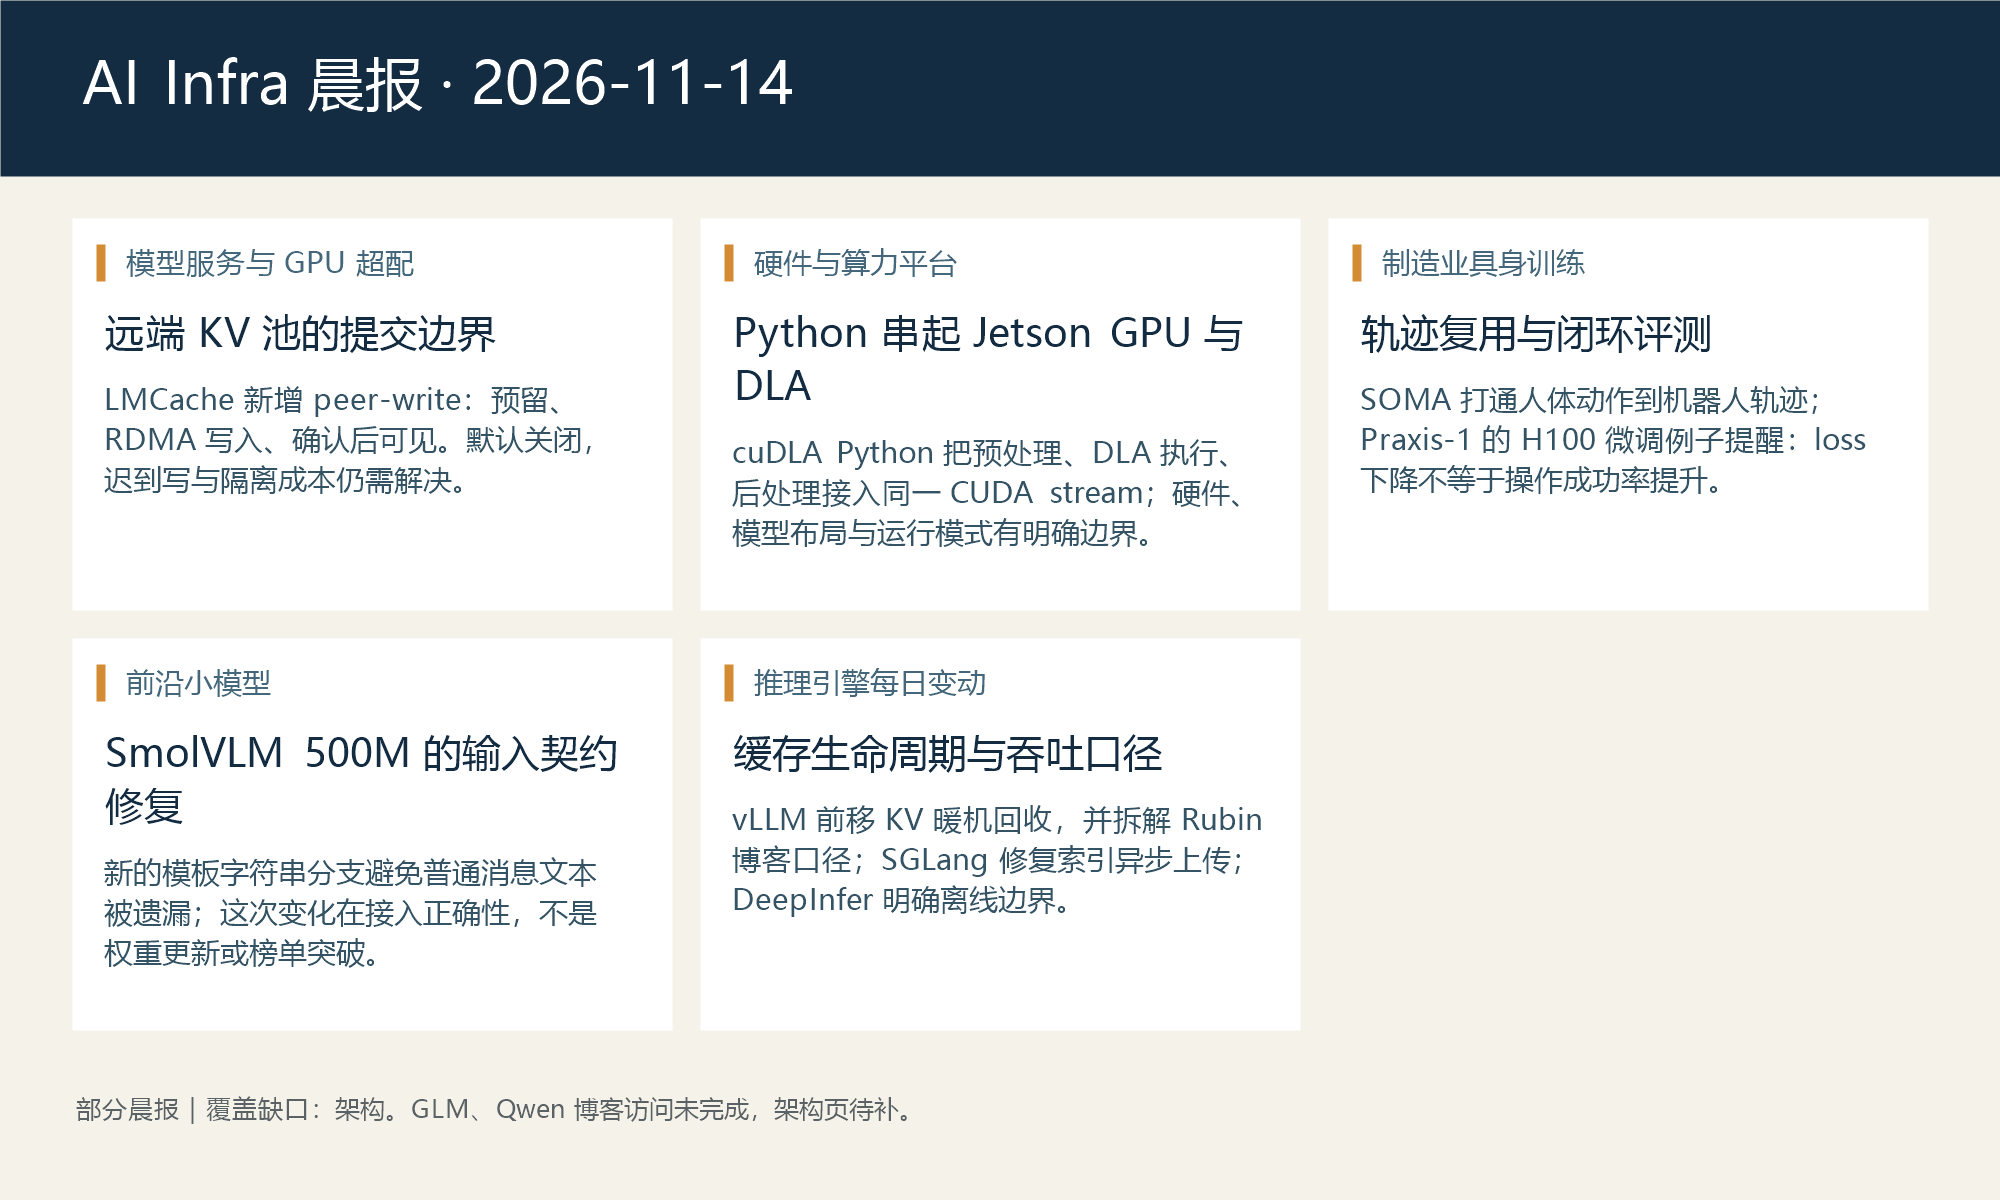
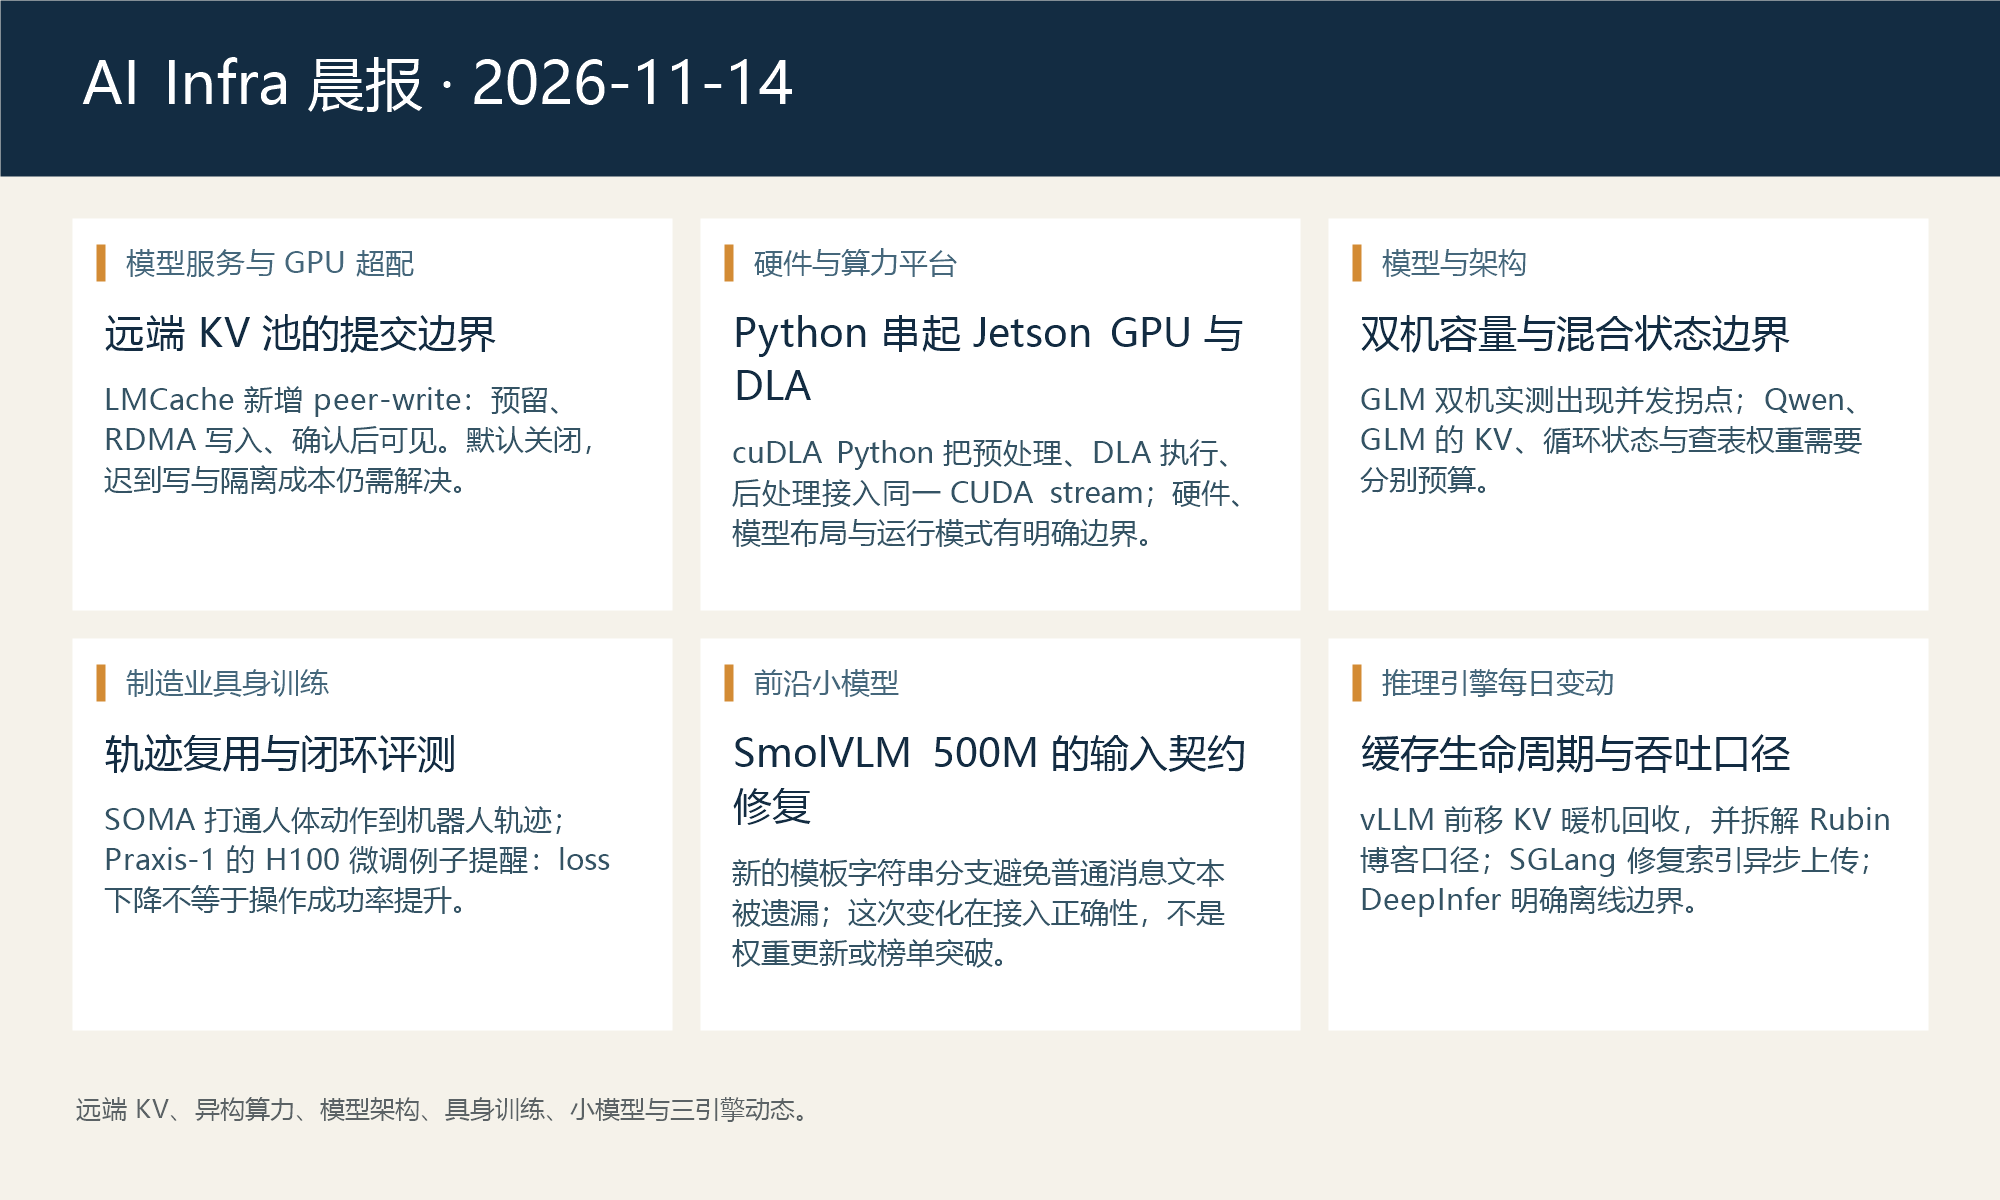
docs(report): publish validated report

diff --git a/reports/2026-11-14/articles/model-architecture-status.md b/reports/2026-11-14/articles/model-architecture-status.md
@@ -1,0 +1,51 @@
+11 月 13 日，NVIDIA 发布了 **GLM-5.3 NVFP4 在两台 DGX Station 上运行的部署实测**。这次增量是具体的软件配置、权重分片和并发测量。GLM-5.3-Flash、Qwen3.8-Flash-Next 的混合架构则是已有背景，用来说明接入不同模型时，哪些内存可以分片、哪些状态必须随请求一起管理。
+
+### 双机让权重装得下，剩余空间仍要留给请求
+
+实测采用两台 **GB300 DGX Station**，每台 GPU 有 252GB HBM3e，经选定的 **400Gb/s ConnectX-8 RoCE** 链路连接。模型是 **GLM-5.3：753B 总参数、每 token 激活约 40B**；NVFP4 checkpoint 约 464GB。这里要与 **320B 总参数、18B 激活的 GLM-5.3-Flash** 区分。
+
+vLLM 的 **TP=2** 把同一个模型的张量分到两个 rank。每个 token 的计算都需要两端通信；入口由 Station A 提供，Station B 是 worker。两台机器各保留完整的磁盘 checkpoint，加载后每张 GPU 约有 218GiB 权重。无请求时约 231.35/231.34GiB 的 GPU 总占用还包含 KV 与运行缓冲，不能全算成权重。
+
+```text
+请求 → Station A：API + rank 0 ← RoCE 通信 → Station B：rank 1
+             两个 rank 共同计算同一个模型的每个 token
+```
+
+这套配置关闭 CPU 权重卸载，使用固定摘要的 `vLLM v0.30.0-aarch64` 镜像、FP8 KV、前缀缓存和每步四个 MTP 草稿 token；上下文上限为 98,304 token。NVFP4 针对特定 MoE 线性权重与激活，不能把全部张量都按四位估算。增加一台机器解决了常驻权重容量问题，KV、临时工作区和通信开销仍要单独预算。
+
+### 并发翻倍，吞吐已经越过拐点
+
+AIPerf 0.12.0 使用 SPEED-Bench Coding 的 80 个会话、89 轮输入，按 `3×并发数` 暖机、`10×并发数` 测量；高并发会重复部分会话。测试开启前缀缓存，采用默认 `max` 推理力度和 8,192 token 输出上限，输出统计包含 reasoning token。
+
+| 配置并发 | 总输出吞吐 | 平均请求延迟 | 平均首 token 延迟 |
+| --- | ---: | ---: | ---: |
+| 16 | 607.8 tok/s | 136.4 s | 482.90 ms |
+| 32 | 385.0 tok/s | 453.5 s | 899.36 ms |
+
+因此，“装得下模型”之后，还要寻找负载下的合适并发。提高并发到 32 已经同时损伤吞吐和平均延迟。这里没有 p99 数据，也没有关闭 MTP 的对照，不能把整套配置的吞吐全部归给草稿解码，或用平均值承诺在线尾延迟。
+
+上述数据来自 **2×GB300 的单模型服务**。H100/H200 的精度内核、容量和互连条件不同，必须重新建立同硬件基线；**Pro5500（型号待核实）**不作兼容承诺。不同模型仍有独立权重，TP 分片本身没有证明跨模型超配收益。
+
+原文与完整复现条件：[NVIDIA 双 DGX Station 部署文章](https://developer.nvidia.com/blog/when-one-gpu-isnt-enough-serving-glm-5-3-across-two-nvidia-dgx-stations-with-vllm/)，发布于 **2026-11-13 17:00 UTC**。
+
+### 混合模型要分别管理 KV、循环状态与查表权重
+
+以下是接入时需要保留的机制背景，不计作本日新模型发布。
+
+**Qwen3.8-Flash-Next** 的 48 层由 12 组“3 层 Gated DeltaNet + 1 层 Qwen Sparse Attention”组成。GDN 把历史压入固定大小的循环状态；QSA 用微块索引选择上下文。其主干为 125B，另有 51B n-gram embedding 和 4B MTP，6B 激活参数不代表常驻权重大小。
+
+n-gram 表的查询位置可提前确定，因此可以放在主机内存并异步预取。这类模型权重的驻留，与请求 KV、稀疏索引和循环状态的生命周期不同。做前缀复用、请求分叉、抢占恢复或草稿回退时，应分别验证这些对象的身份、位置与一致性，不能把固定大小的循环状态套进普通全注意力 KV 的容量公式。这里是由机制导出的验证要求，不代表各引擎已经实现相同的卸载和复用策略。
+
+**GLM-5.3-Flash** 采用线性与稀疏注意力的混合设计，并用 IndexPool 将四个索引 key 加权池化为一个。官方文章描述了 SGLang 定制栈中的 ReplaySSM、混合缓存精度和分离部署；这与上面的 GLM-5.3 NVFP4 双机实例属于不同模型和部署条件，配置与性能数字不能相互套用。
+
+模型卡给出了 Flash-Next、GLM-5.3-Flash 的 vLLM/SGLang 接入入口。本页核实了这些官方声明，但尚未逐一确认它们全部功能的最低上游稳定版本；部署时应按目标模型、缓存精度、草稿路径和并行方式核对具体 recipe/commit。DeepInfer 的既有离线支持范围也不能扩写为这两个模型的在线服务支持。
+
+**DeepSeek-V4.1-Flash-1017** 的现有模型卡还明确要求协议感知的编码实现，没有提供 Jinja chat template；消息、思考和工具调用的编码与解析需要单独验证。本轮未据此新增模型发布条目。已经核实的 Rubin 服务技术文保留在[推理引擎每日变动](https://sfcloud-ai.github.io/ai-infra-reports/2026-11-14/inference-engines/)，不重复计算事件。
+
+机制来源：[Qwen Flash-Next 官方文章](https://qwen.ai/blog?id=qwen3.8-flash-next)、[Qwen 模型卡](https://huggingface.co/Qwen/Qwen3.8-Flash-Next)、[GLM-5.3-Flash 官方文章](https://z.ai/blog/glm-5.3-flash)、[GLM 模型卡](https://huggingface.co/zai-org/GLM-5.3-Flash)、[DeepSeek 模型卡](https://huggingface.co/deepseek-ai/DeepSeek-V4.1-Flash-1017)。
+
+### 下一步：用同硬件基线检验真正的容量收益
+
+在 H100/H200 上，先分别测出权重、KV/循环状态、临时工作区与安全余量，再测多模型并驻下的队列、回取带宽和 TTFT/p99。对循环状态与稀疏索引加入请求分叉、抢占恢复和草稿回退场景。只有容量增益、状态正确性与服务延迟都满足目标，才有依据推进超配配置。
+
+核查范围保持本期原 **11 月 14 日 07:20（北京时间）**截点。此次读到的 Qwen 官方研究列表包含 40 篇文章，最新日期为 9 月 20 日；Flash-Next 的列表时间与正文页头分别为 8 月 26 日、8 月 3 日，均作为旧背景。GLM 已读的是模型卡链接的具体官方文章，日期为 8 月 26 日；博客列表入口仍返回 404，因此没有据此断言全站或云端文档“没有更新”。
